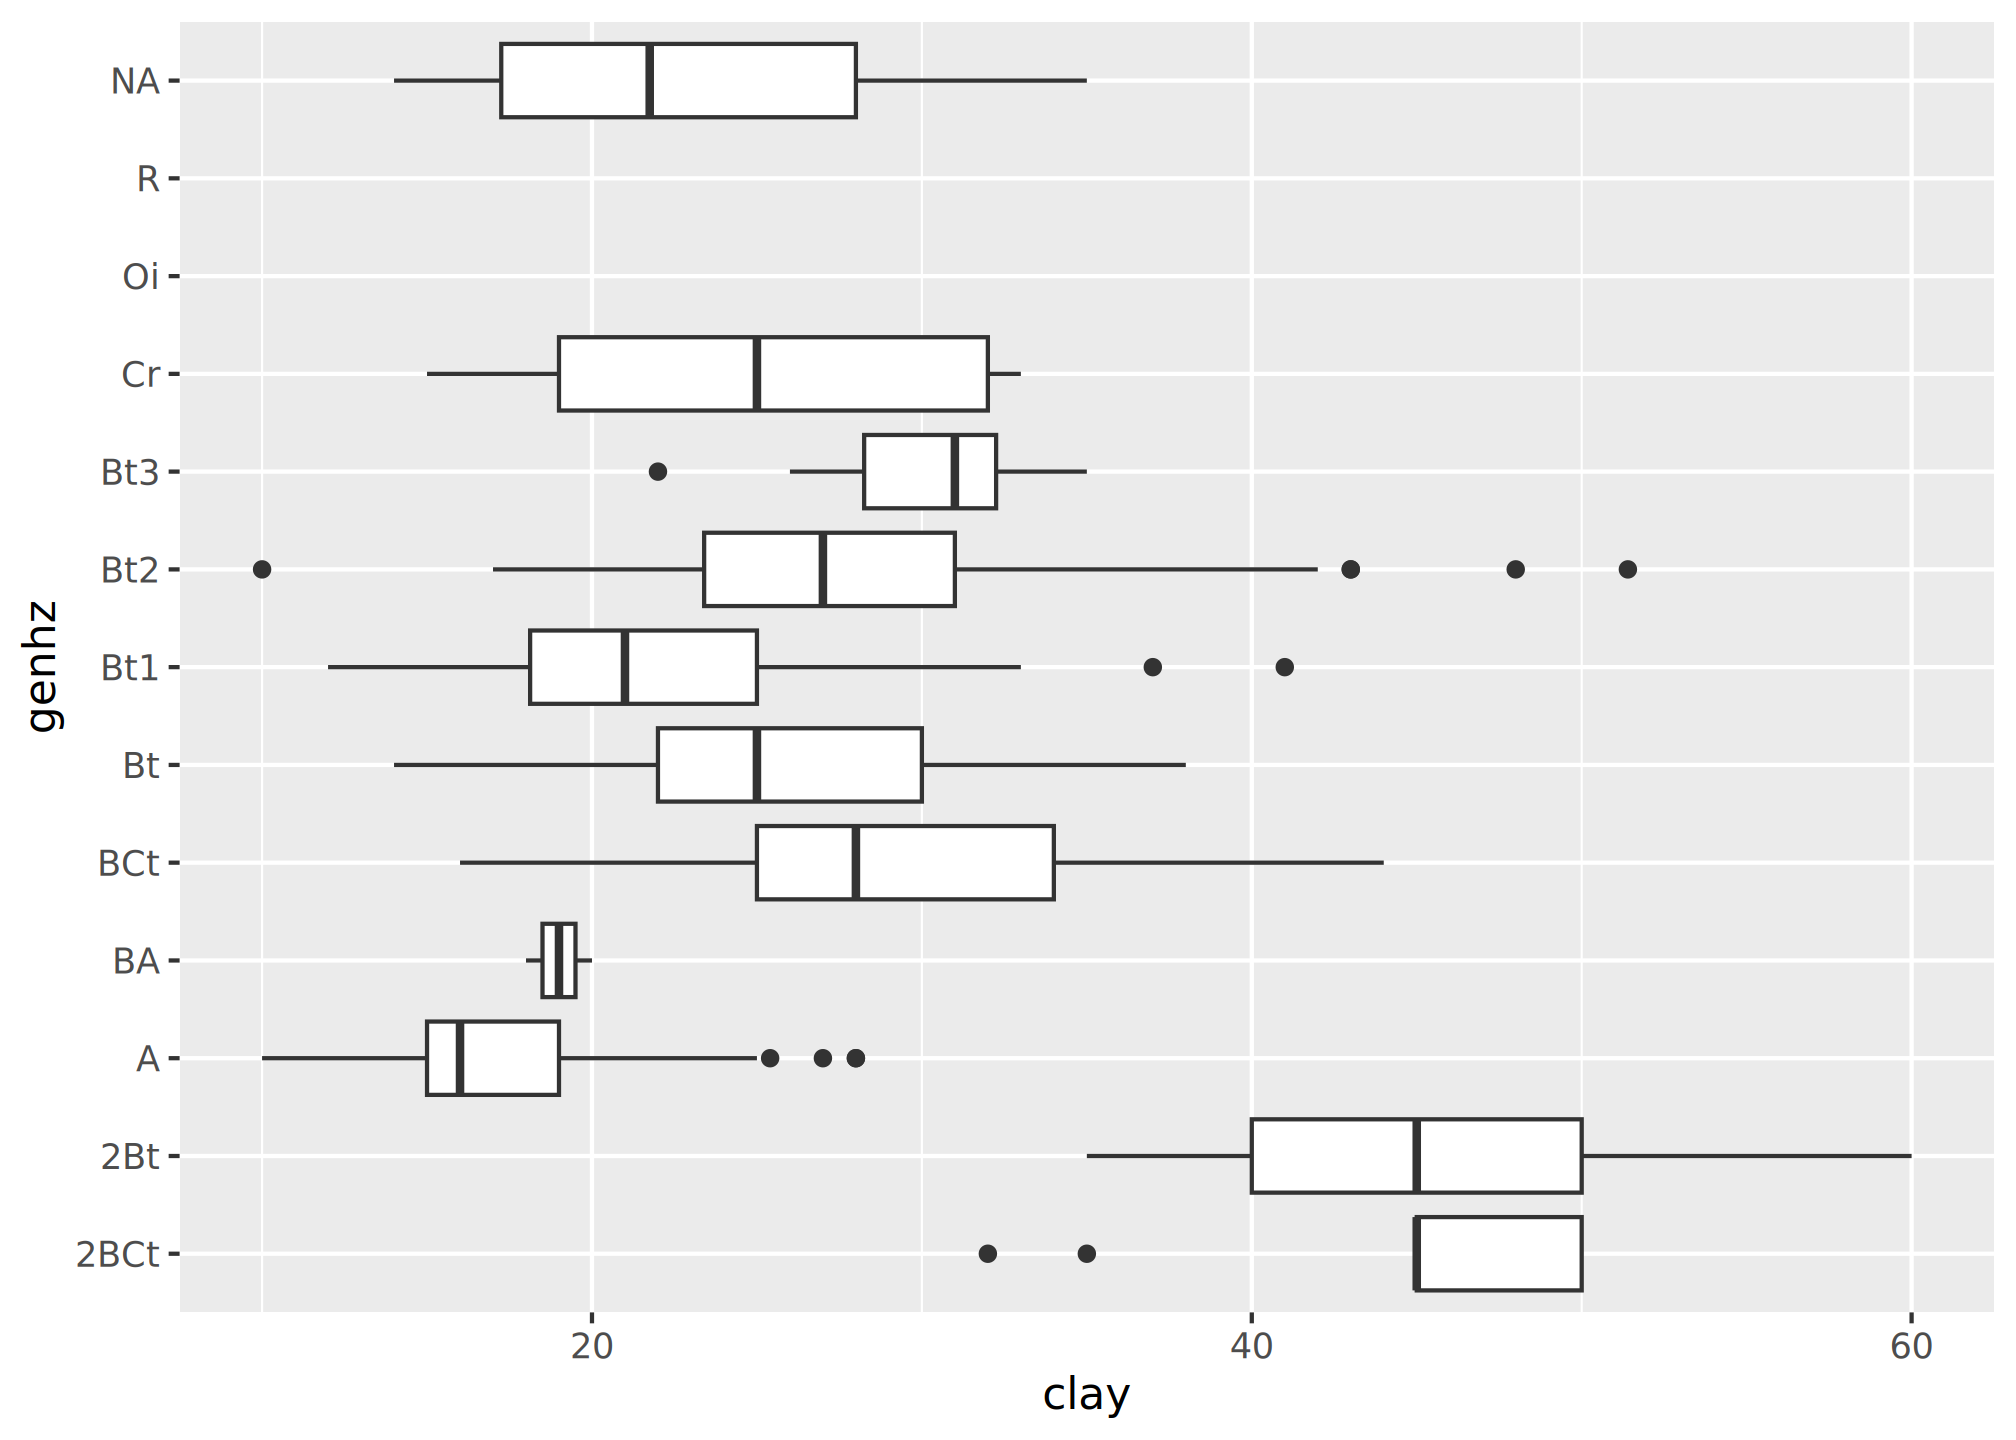
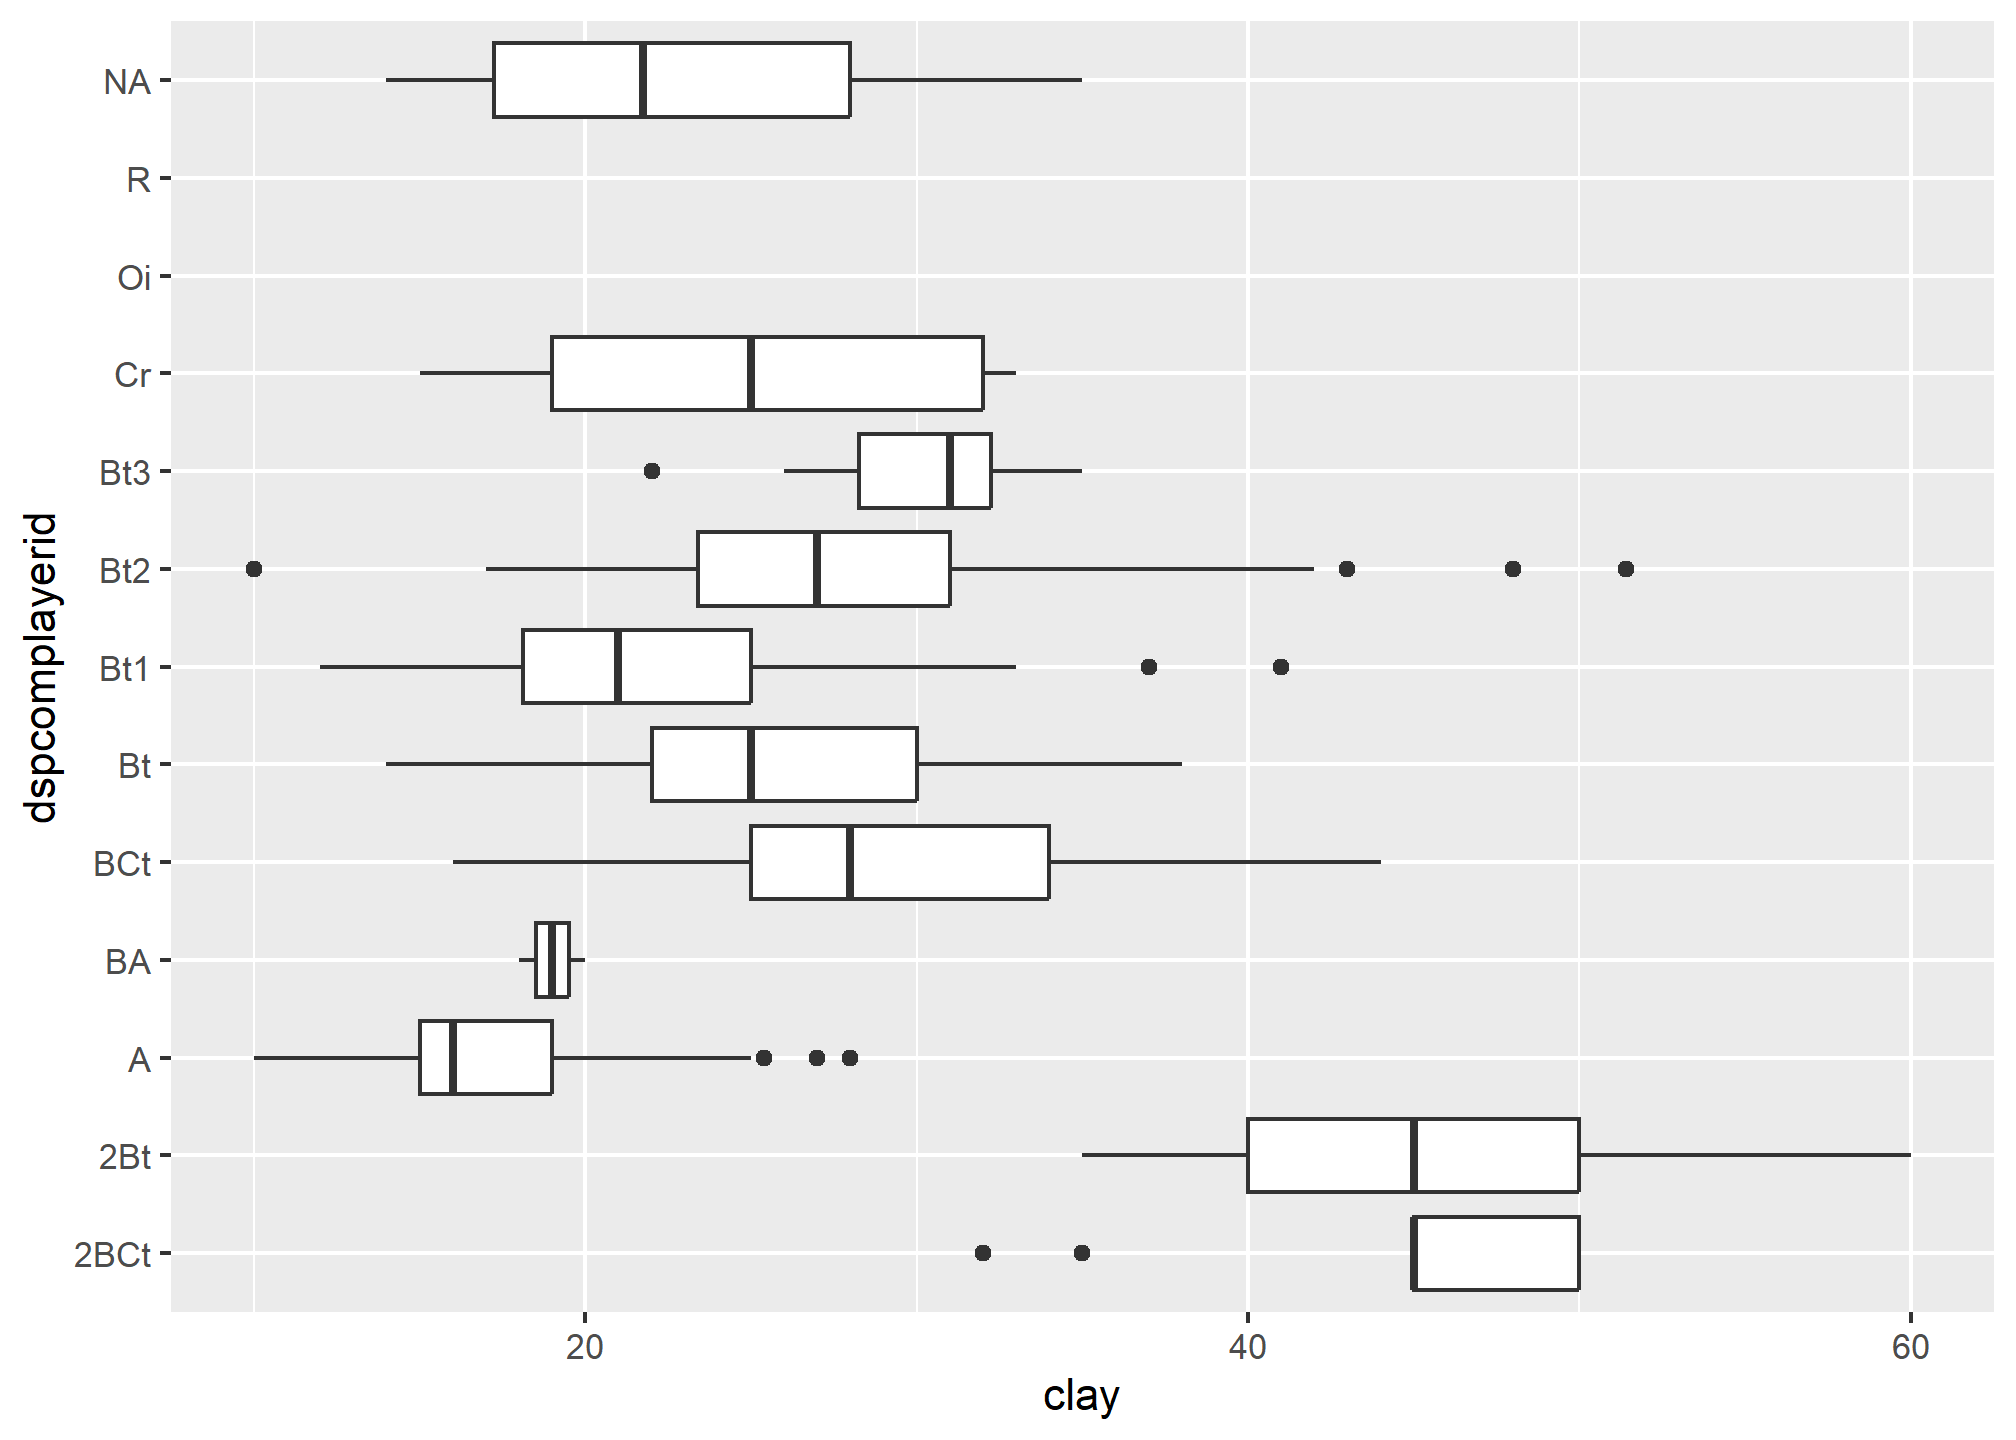
bump README

diff --git a/README.md b/README.md
@@ -34,20 +34,12 @@ variables contained in a `SoilProfileCollection` with
 
 ``` r
 library(aqp)
-#> The legacy packages maptools, rgdal, and rgeos, underpinning the sp package,
-#> which was just loaded, will retire in October 2023.
-#> Please refer to R-spatial evolution reports for details, especially
-#> https://r-spatial.org/r/2023/05/15/evolution4.html.
-#> It may be desirable to make the sf package available;
-#> package maintainers should consider adding sf to Suggests:.
-#> The sp package is now running under evolution status 2
-#>      (status 2 uses the sf package in place of rgdal)
-#> This is aqp 2.0
+#> This is aqp 2.1.1
 library(ggspc)
 library(ggplot2)
 
 data(loafercreek, package = "soilDB")
-GHL(loafercreek) <- "genhz"
+GHL(loafercreek) <- "dspcomplayerid"
 ```
 
 ### Basics
@@ -75,7 +67,7 @@ ggplot(loafercreek, aes(hillslopeprof, clay)) +
 
 ``` r
 # horizon v.s. horizon level
-ggplot(loafercreek, aes(clay, genhz)) +
+ggplot(loafercreek, aes(clay, dspcomplayerid)) +
   geom_boxplot(na.rm = TRUE)
 ```
 
